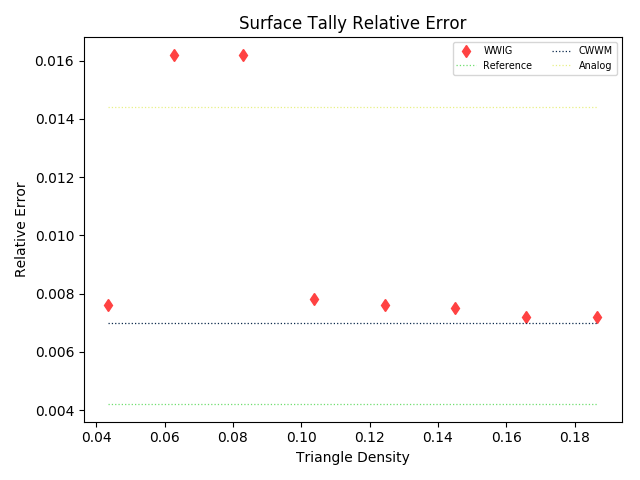
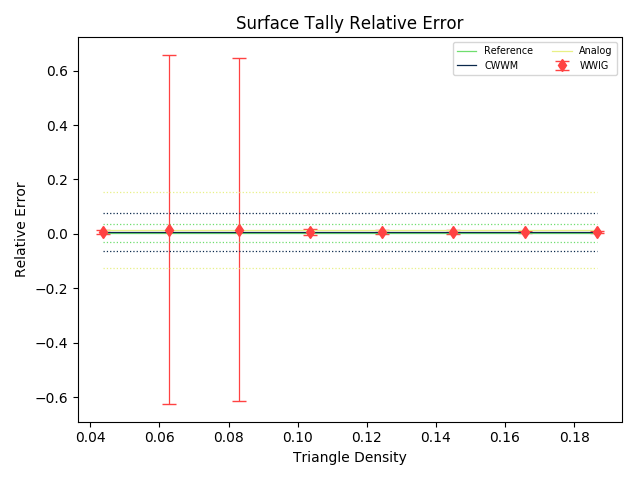
plot vov with the relative error

diff --git a/performance-analysis/analysis/plot_tally_data.py b/performance-analysis/analysis/plot_tally_data.py
@@ -363,30 +363,55 @@ def plot_fom(df_output, df_measure, refinement):
 def plot_relative_error_ratio(df_output):
     plt.figure()
 
-    xmax = 11  # for location of the analog, reference, and cwwm results
-    ref_err = df_output.loc[df_output['mode'] == 'reference']['error total']
-    cwwm_err = df_output.loc[df_output['mode'] == 'cwwm']['error total']
-    ana_err = df_output.loc[df_output['mode'] == 'analog']['error total']
-    ref_err_plt = np.full(2, float(ref_err))
-    cwwm_err_plt = np.full(2, float(cwwm_err))
-    ana_err_plt = np.full(2, float(ana_err))
+    ref_err = df_output.loc[df_output['mode'] ==
+                            'reference'][['error total', 'vov']]
+    cwwm_err = df_output.loc[df_output['mode']
+                             == 'cwwm'][['error total', 'vov']]
+    ana_err = df_output.loc[df_output['mode']
+                            == 'analog'][['error total', 'vov']]
+    ref_err_plt = np.full(2, float(ref_err['error total']))
+    cwwm_err_plt = np.full(2, float(cwwm_err['error total']))
+    ana_err_plt = np.full(2, float(ana_err['error total']))
+
+    ref_vov_p = np.full(2, ref_err_plt + float(ref_err['vov']))
+    ref_vov_m = np.full(2, ref_err_plt - float(ref_err['vov']))
+    cwwm_vov_p = np.full(2, cwwm_err_plt + float(cwwm_err['vov']))
+    cwwm_vov_m = np.full(2, cwwm_err_plt - float(cwwm_err['vov']))
+    ana_vov_p = np.full(2, ana_err_plt + float(ana_err['vov']))
+    ana_vov_m = np.full(2, ana_err_plt - float(ana_err['vov']))
 
     # get wwig relative errors
     df_sub2 = df_output.loc[df_output['mode'] == 'wwig'].loc[
         df_output['tally total'].notnull()]
-    wwig_err = df_sub2[['error total', 'ratio']]
+    wwig_err = df_sub2[['error total', 'ratio', 'vov']]
 
-    plt.plot(wwig_err['ratio'], wwig_err['error total'],
-             marker=markers['wwig'],
-             color=colors['wwig'], ls='', lw=lw, label='WWIG')
-    plt.plot([ratios[0], xmax], ref_err_plt,
-             color=colors['reference'], ls=':', lw=lw, label='Reference')
-    plt.plot([ratios[0], xmax], cwwm_err_plt,
-             color=colors['cwwm'], ls=':', lw=lw,
-             label='CWWM')
-    plt.plot([ratios[0], xmax], ana_err_plt,
-             color=colors['analog'], ls=':', lw=lw, label='Analog')
+    xmin = min(wwig_err['ratio'])
+    xmax = max(wwig_err['ratio']) + 1
 
+    plt.errorbar(wwig_err['ratio'], wwig_err['error total'],
+                 yerr=wwig_err['vov'],
+                 marker=markers['wwig'],
+                 color=colors['wwig'], ls='', lw=lw, capsize=cs,
+                 label='WWIG')
+    plt.plot([xmin, xmax], ref_err_plt,
+             color=colors['reference'], ls='-', lw=lw, label='Reference')
+    plt.plot([xmin, xmax], cwwm_err_plt,
+             color=colors['cwwm'], ls='-', lw=lw, label='CWWM')
+    plt.plot([xmin, xmax], ana_err_plt,
+             color=colors['analog'], ls='-', lw=lw, label='Analog')
+
+    plt.plot([xmin, xmax], ref_vov_p,
+             color=colors['reference'], ls=':', lw=lw, label='')
+    plt.plot([xmin, xmax], cwwm_vov_p,
+             color=colors['cwwm'], ls=':', lw=lw, label='')
+    plt.plot([xmin, xmax], ana_vov_p,
+             color=colors['analog'], ls=':', lw=lw, label='')
+    plt.plot([xmin, xmax], ref_vov_m,
+             color=colors['reference'], ls=':', lw=lw, label='')
+    plt.plot([xmin, xmax], cwwm_vov_m,
+             color=colors['cwwm'], ls=':', lw=lw, label='')
+    plt.plot([xmin, xmax], ana_vov_m,
+             color=colors['analog'], ls=':', lw=lw, label='')
     # labels
     ylabel = 'Relative Error'
     xlabel = 'WWIG spacing ratio'
@@ -416,17 +441,27 @@ def plot_relative_error_refine(df_output, df_measure, refinement):
 
     plt.figure()
 
-    ref_err = df_output.loc[df_output['mode'] == 'reference']['error total']
-    cwwm_err = df_output.loc[df_output['mode'] == 'cwwm']['error total']
-    ana_err = df_output.loc[df_output['mode'] == 'analog']['error total']
-    ref_err_plt = np.full(2, float(ref_err))
-    cwwm_err_plt = np.full(2, float(cwwm_err))
-    ana_err_plt = np.full(2, float(ana_err))
+    ref_err = df_output.loc[df_output['mode'] ==
+                            'reference'][['error total', 'vov']]
+    cwwm_err = df_output.loc[df_output['mode']
+                             == 'cwwm'][['error total', 'vov']]
+    ana_err = df_output.loc[df_output['mode']
+                            == 'analog'][['error total', 'vov']]
+    ref_err_plt = np.full(2, float(ref_err['error total']))
+    cwwm_err_plt = np.full(2, float(cwwm_err['error total']))
+    ana_err_plt = np.full(2, float(ana_err['error total']))
+
+    ref_vov_p = np.full(2, ref_err_plt + float(ref_err['vov']))
+    ref_vov_m = np.full(2, ref_err_plt - float(ref_err['vov']))
+    cwwm_vov_p = np.full(2, cwwm_err_plt + float(cwwm_err['vov']))
+    cwwm_vov_m = np.full(2, cwwm_err_plt - float(cwwm_err['vov']))
+    ana_vov_p = np.full(2, ana_err_plt + float(ana_err['vov']))
+    ana_vov_m = np.full(2, ana_err_plt - float(ana_err['vov']))
 
     # get wwig relative errors
     # get the output data for total tally
     df_tally = df_output.loc[~df_output[output_key].isnull()][
-        ['error total', output_key]]
+        ['error total', output_key, 'vov']]
 
     # get measurement data for total only
     df_refine = df_measure.loc[df_measure['group'] == 'total'][
@@ -439,16 +474,30 @@ def plot_relative_error_refine(df_output, df_measure, refinement):
     xmin = min(wwig_err[measurement])
     xmax = max(wwig_err[measurement])
 
-    plt.plot(wwig_err[measurement], wwig_err['error total'],
-             marker=markers['wwig'],
-             color=colors['wwig'], ls='', lw=lw, label='WWIG')
+    plt.errorbar(wwig_err[measurement], wwig_err['error total'],
+                 yerr=wwig_err['vov'],
+                 marker=markers['wwig'],
+                 color=colors['wwig'], ls='', lw=lw, capsize=cs,
+                 label='WWIG')
     plt.plot([xmin, xmax], ref_err_plt,
-             color=colors['reference'], ls=':', lw=lw, label='Reference')
+             color=colors['reference'], ls='-', lw=lw, label='Reference')
     plt.plot([xmin, xmax], cwwm_err_plt,
-             color=colors['cwwm'], ls=':', lw=lw,
-             label='CWWM')
+             color=colors['cwwm'], ls='-', lw=lw, label='CWWM')
     plt.plot([xmin, xmax], ana_err_plt,
-             color=colors['analog'], ls=':', lw=lw, label='Analog')
+             color=colors['analog'], ls='-', lw=lw, label='Analog')
+
+    plt.plot([xmin, xmax], ref_vov_p,
+             color=colors['reference'], ls=':', lw=lw, label='')
+    plt.plot([xmin, xmax], cwwm_vov_p,
+             color=colors['cwwm'], ls=':', lw=lw, label='')
+    plt.plot([xmin, xmax], ana_vov_p,
+             color=colors['analog'], ls=':', lw=lw, label='')
+    plt.plot([xmin, xmax], ref_vov_m,
+             color=colors['reference'], ls=':', lw=lw, label='')
+    plt.plot([xmin, xmax], cwwm_vov_m,
+             color=colors['cwwm'], ls=':', lw=lw, label='')
+    plt.plot([xmin, xmax], ana_vov_m,
+             color=colors['analog'], ls=':', lw=lw, label='')
 
     # labels
     ylabel = 'Relative Error'
